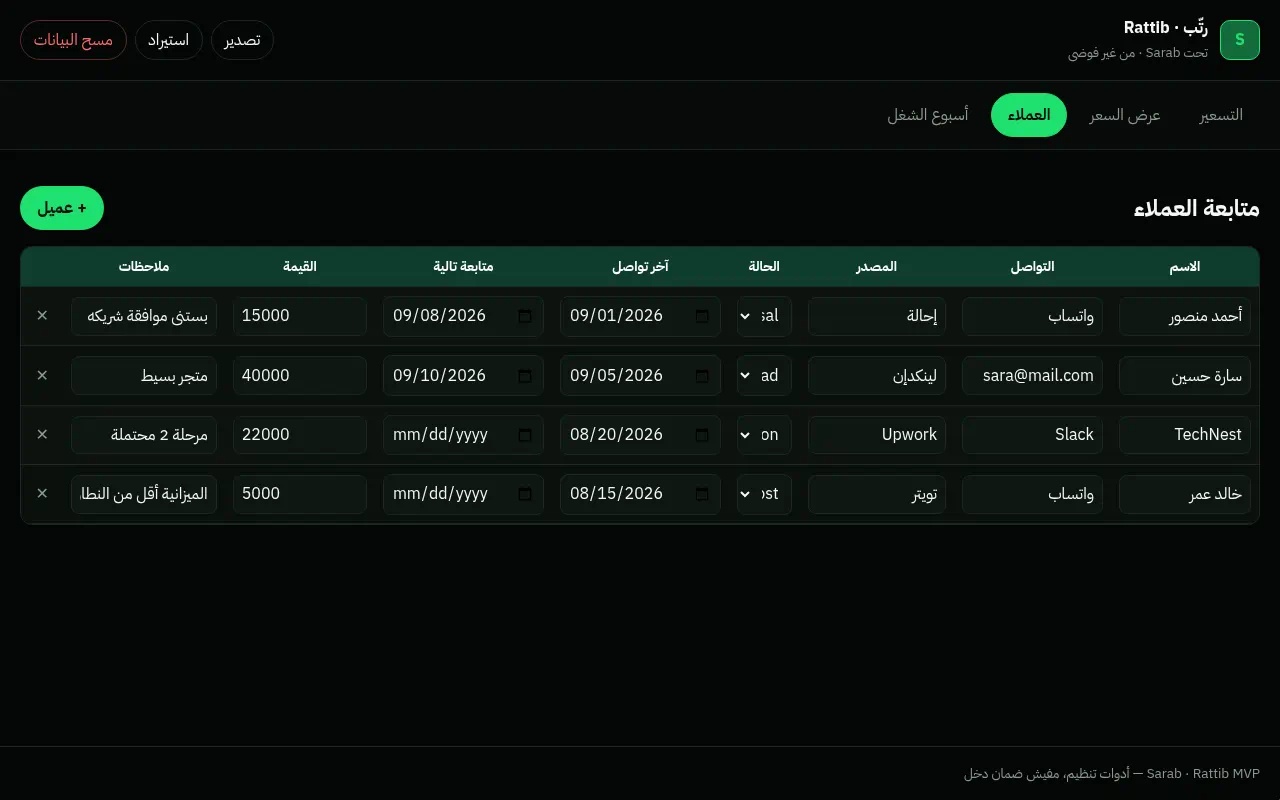
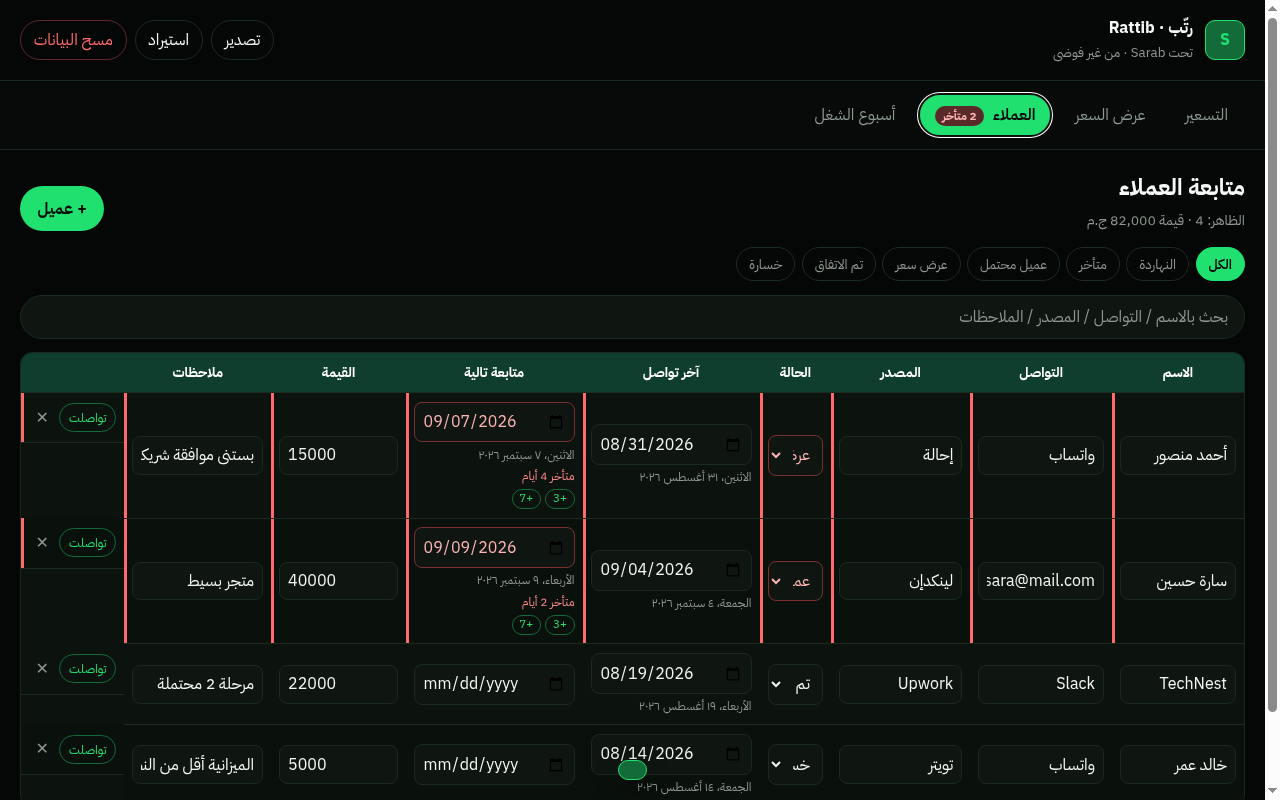
chore(landing): refresh CRM gallery preview from live /app/
Shows filters, search, النهاردة, statuses, and تواصلت so pitches match the product.

diff --git a/index.html b/index.html
@@ -467,8 +467,8 @@
         <figcaption>App · Weekly · done ☐/☑</figcaption>
       </figure>
       <figure class="preview-card">
-        <img src="preview-crm-hq.png" width="1280" height="800" alt="Rattib CRM with Arabic status dropdown" loading="lazy" decoding="async">
-        <figcaption>App · CRM · Arabic statuses</figcaption>
+        <img src="preview-crm-hq.png" width="1280" height="800" alt="Rattib CRM: filters, search, النهاردة chip, Arabic statuses, تواصلت / WhatsApp" loading="lazy" decoding="async">
+        <figcaption>App · CRM · filters · تواصلت</figcaption>
       </figure>
     </div>
   </div>
